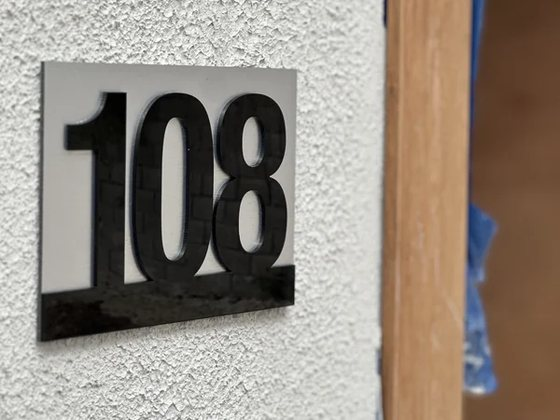
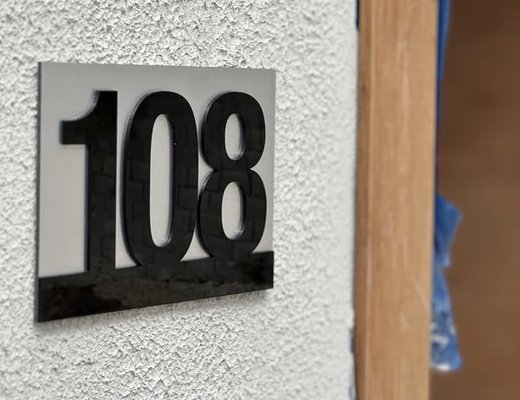
feat: add restored Sun District entrance sign to B2B email gallery

diff --git a/.agents/skills/loscrafters-email-marketing/scripts/crafters_mailer.py b/.agents/skills/loscrafters-email-marketing/scripts/crafters_mailer.py
@@ -154,13 +154,13 @@ def build_html_email(
     bullets_html = "".join(f'<li style="margin-bottom: 8px;">{b}</li>' for b in tpl["bullets"])
 
     if use_cid:
+        img_sundistrict = "cid:sun_district"
         img_closeup = "cid:pc_detalle"
         img_basalto = "cid:via_basalto"
-        img_libreria = "cid:libreria_sign"
     else:
+        img_sundistrict = "https://www.loscrafters.net/assets/images/email-sun-district.jpg"
         img_closeup = "https://www.loscrafters.net/assets/images/email-punta-cana-2.jpg"
         img_basalto = "https://www.loscrafters.net/assets/images/email-via-basalto.jpg"
-        img_libreria = "https://www.loscrafters.net/assets/images/email-libreria-senalizacion.jpg"
 
     gallery_html = ""
     if tpl.get("show_gallery", True):
@@ -168,29 +168,29 @@ def build_html_email(
               <!-- Galería de Trabajos Reales -->
               <div style="margin:20px 0;background-color:#101929;border:1px solid #1C2E47;border-radius:8px;padding:16px;">
                 <div style="font-size:11px;font-weight:800;letter-spacing:1.4px;color:#5BA3F5;text-transform:uppercase;margin-bottom:10px;">
-                  TRABAJOS REALIZADOS POR NUESTRO EQUIPO
+                  PROYECTOS Y SEÑALIZACIÓN REALIZADOS
                 </div>
-                <!-- Imagen principal (Close-up 108) -->
-                <div style="margin-bottom:10px;">
+                <!-- Imagen Principal: Entrada Sun District -->
+                <div style="margin-bottom:12px;">
                   <a href="https://www.loscrafters.net/#portafolio" target="_blank" style="text-decoration:none;">
-                    <img src="{img_closeup}" alt="Detalle de Numeración 3D en Relieve" width="502" style="width:100%;max-width:502px;height:auto;border-radius:6px;border:1px solid #3265A6;display:block;">
+                    <img src="{img_sundistrict}" alt="Letrero Monumental 3D en Entrada de Proyecto Residencial Sun District" width="502" style="width:100%;max-width:502px;height:auto;border-radius:6px;border:1px solid #3265A6;display:block;">
                   </a>
-                  <div style="font-size:12px;color:#8BA4C2;margin-top:6px;">Numeración residencial en relieve 3D (acrílico de alto brillo sobre aluminio cepillado)</div>
+                  <div style="font-size:12px;color:#8BA4C2;margin-top:6px;">Identidad y letrero corpóreo 3D para entrada principal de proyecto residencial</div>
                 </div>
-                <!-- 2 imágenes complementarias de señalización de la web -->
+                <!-- 2 imágenes en simetría: Close-up 108 + Señalización Vial -->
                 <table role="presentation" width="100%" cellspacing="0" cellpadding="0" style="margin-top:10px;">
                   <tr>
                     <td width="49%" valign="top" style="padding-right:5px;">
                       <a href="https://www.loscrafters.net/#portafolio" target="_blank" style="text-decoration:none;">
-                        <img src="{img_basalto}" alt="Señalización Vial y de Proyectos" width="246" style="width:100%;max-width:246px;height:auto;border-radius:6px;border:1px solid #1C2E47;display:block;">
+                        <img src="{img_closeup}" alt="Detalle de Numeración 3D en Relieve" width="246" style="width:100%;max-width:246px;height:auto;border-radius:6px;border:1px solid #1C2E47;display:block;">
                       </a>
-                      <div style="font-size:11px;color:#8BA4C2;margin-top:5px;">Señalización exterior de proyectos</div>
+                      <div style="font-size:11px;color:#8BA4C2;margin-top:5px;">Numeración 3D en relieve (acrílico y aluminio)</div>
                     </td>
                     <td width="49%" valign="top" style="padding-left:5px;">
                       <a href="https://www.loscrafters.net/#portafolio" target="_blank" style="text-decoration:none;">
-                        <img src="{img_libreria}" alt="Señalética Arquitectónica" width="246" style="width:100%;max-width:246px;height:auto;border-radius:6px;border:1px solid #1C2E47;display:block;">
+                        <img src="{img_basalto}" alt="Señalización Vial y de Proyectos" width="246" style="width:100%;max-width:246px;height:auto;border-radius:6px;border:1px solid #1C2E47;display:block;">
                       </a>
-                      <div style="font-size:11px;color:#8BA4C2;margin-top:5px;">Señalética para áreas y edificios</div>
+                      <div style="font-size:11px;color:#8BA4C2;margin-top:5px;">Señalización vial e interna de proyectos</div>
                     </td>
                   </tr>
                 </table>
@@ -260,9 +260,9 @@ def build_html_email(
 
 def attach_inline_images(msg_root: MIMEMultipart):
     inline_map = {
+        "sun_district": IMAGES_DIR / "email-sun-district.jpg",
         "pc_detalle": IMAGES_DIR / "email-punta-cana-2.jpg",
         "via_basalto": IMAGES_DIR / "email-via-basalto.jpg",
-        "libreria_sign": IMAGES_DIR / "email-libreria-senalizacion.jpg",
     }
     for cid, img_path in inline_map.items():
         if img_path.exists():
